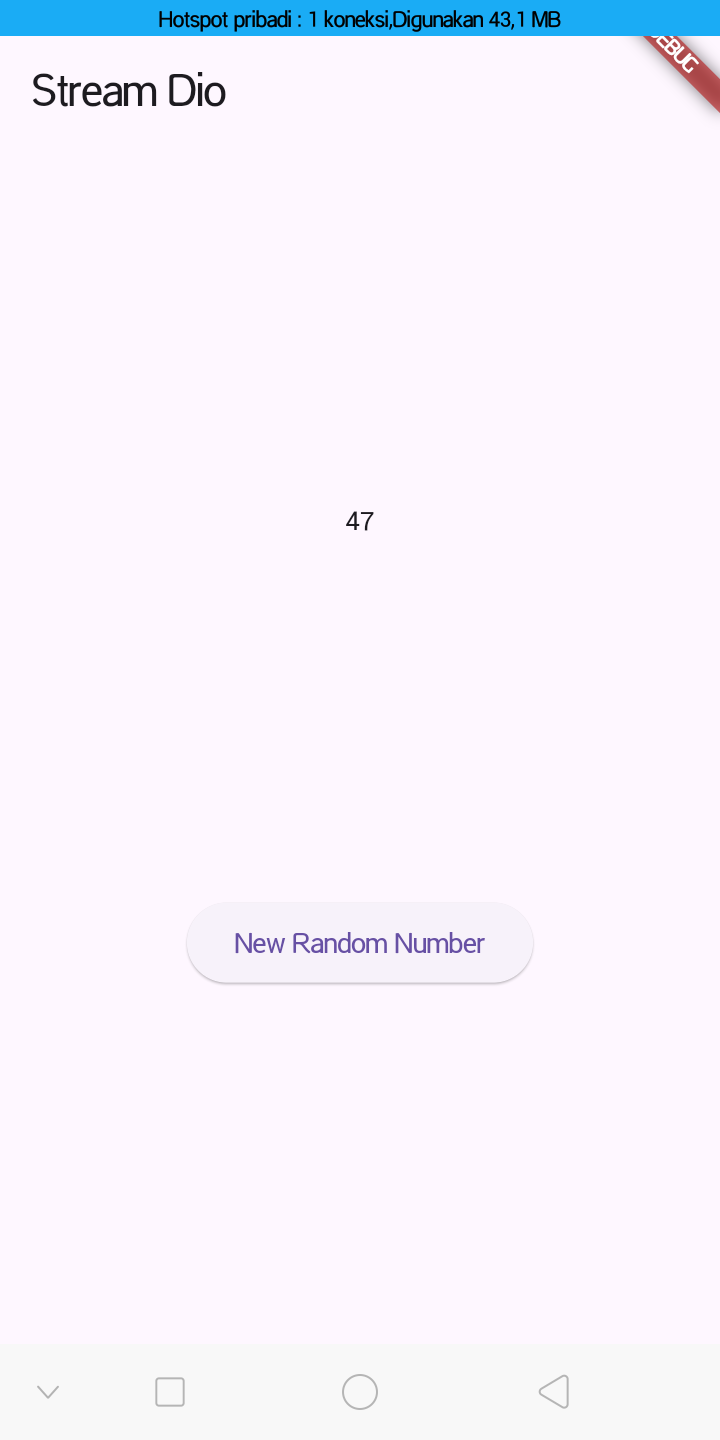
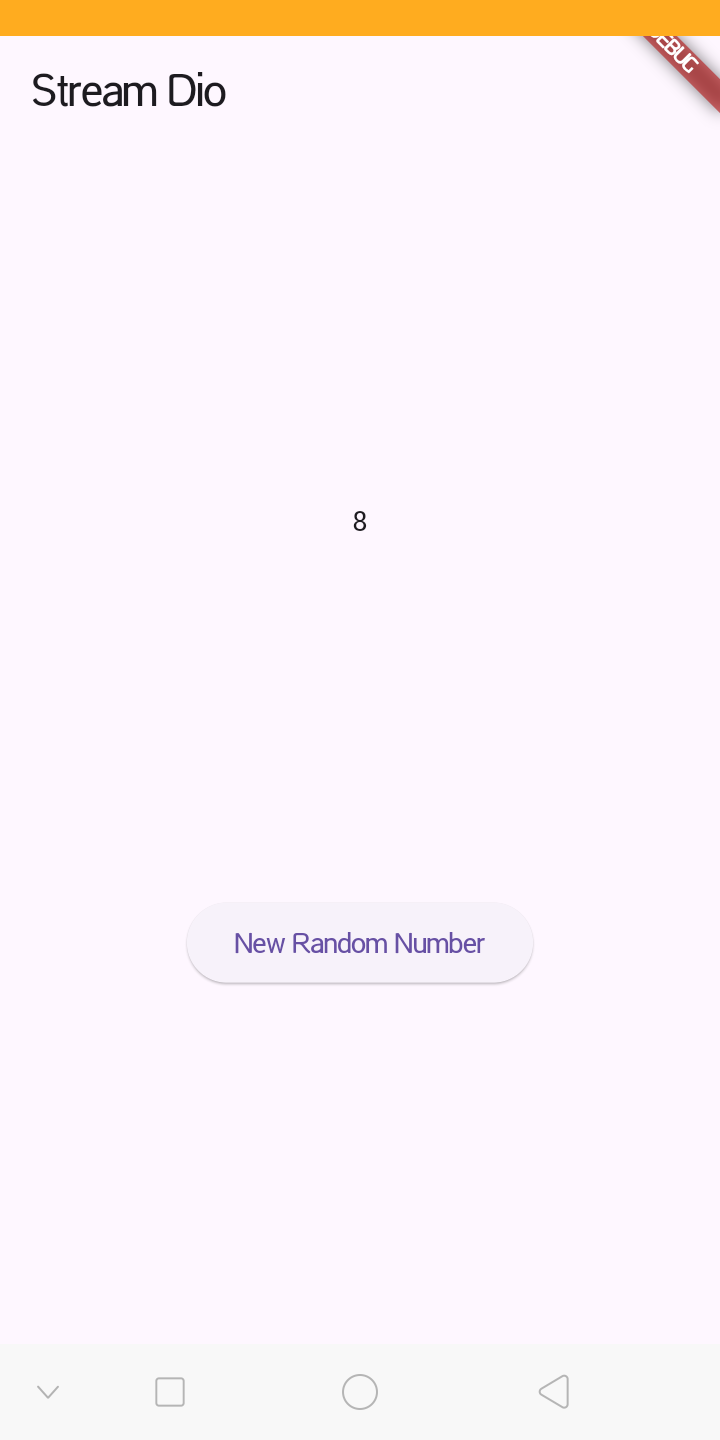
W12: Jawaban Soal 9

Changed region(s): [[0.0, 0.0, 1.0, 0.0312], [0.4889, 0.3438, 0.5194, 0.375]]

diff --git a/codelab12/stream_dio/lib/main.dart b/codelab12/stream_dio/lib/main.dart
@@ -37,8 +37,32 @@ class _StreamHomePageState extends State<StreamHomePage> {
   // Langkah 1 Praktikum 3
   late StreamTransformer transformer;
 
+  // Langkah 1 Praktikum 4
+  late StreamSubscription subscription;
+
   @override
+  // Langkah 2 Praktikum 4
   void initState() {
+    numberStream = NumberStream();
+    numberStreamController = numberStream.controller;
+    Stream stream = numberStreamController.stream;
+    subscription = stream.listen((event) {
+      setState(() {
+        lastNumber = event;
+      });
+    });
+    subscription.onError((error) {
+      setState(() {
+        lastNumber = -1;
+      });
+    });
+    subscription.onDone(() {
+      print("OnDone was called");
+    });
+    super.initState();
+  }
+
+  /*void initState() {
     // Langkah 8 Praktikum 2
     numberStream = NumberStream();
     numberStreamController = numberStream.controller;
@@ -69,12 +93,13 @@ class _StreamHomePageState extends State<StreamHomePage> {
     super.initState();
     // colorStream = ColorStream();
     // changeColor();
-  }
+  }*/
 
   // Langkah 9 Praktikum 2
   @override
   void dispose() {
-    numberStreamController.close();
+    subscription.cancel();
+    // numberStreamController.close();
     super.dispose();
   }
 
@@ -93,6 +118,11 @@ class _StreamHomePageState extends State<StreamHomePage> {
             ElevatedButton(
               onPressed: () => addRandomNumber(),
               child: Text('New Random Number'),
+            ),
+            // Praktikum 4 Langkah 7
+            ElevatedButton(
+              onPressed: () => stopStream(),
+              child: Text('Stop Subscription'),
             ),
           ],
         ),
@@ -119,8 +149,21 @@ class _StreamHomePageState extends State<StreamHomePage> {
   // Langkah 10 Praktikum 2
   void addRandomNumber() {
     Random random = Random();
-    int myNum = random.nextInt(100);
-    numberStream.addNumberToSink(myNum);
+    int myNum = random.nextInt(10);
+    // Praktikum 4 Langkah 8
+    if (!numberStreamController.isClosed) {
+      numberStream.addNumberToSink(myNum);
+    } else {
+      setState(() {
+        lastNumber = -1;
+      });
+    }
+    // numberStream.addNumberToSink(myNum);
     // numberStream.addError();
+  }
+
+  // Praktikum 4 Langkah 5
+  void stopStream() {
+    numberStreamController.close();
   }
 }

diff --git a/codelab12/README.md b/codelab12/README.md
@@ -392,7 +392,7 @@ class _StreamHomePageState extends State<StreamHomePage> {
   // Langkah 10 Praktikum 2
   void addRandomNumber() {
     Random random = Random();
-    int myNum = random.nextInt(100);
+    int myNum = random.nextInt(10);
     numberStream.addNumberToSink(myNum);
   }
 }
@@ -420,7 +420,7 @@ Lakukan running pada aplikasi Flutter Anda, maka akan terlihat seperti gambar be
   - Langkah 10: `addRandomNumber()`
     Maksud dari kode `addRandomNumber()` adalah untuk **menghasilkan data baru dan memasukkannya ke dalam _stream_**.
     1. `Random random = Random();`: Membuat generator angka acak.
-    2. `int myNum = random.nextInt(100);`: Menghasilkan angka acak baru antara 0 dan 99.
+    2. `int myNum = random.nextInt(100);`: Menghasilkan angka acak baru antara 0 dan 9.
     3. `numberStream.addNumberToSink(myNum);`: Merupakan aksi kunci. Kode ini mengambil angka acak (`myNum`) dan "menuangkannya" ke dalam _stream_ (melalui `sink`).
 
 - Capture hasil praktikum Anda berupa GIF dan lampirkan di README. ꪜ
@@ -458,7 +458,7 @@ Lakukan running pada aplikasi Flutter Anda, maka akan terlihat seperti gambar be
 ```dart
   void addRandomNumber() {
     Random random = Random();
-    // int myNum = random.nextInt(100);
+    // int myNum = random.nextInt(10);
     // numberStream.addNumberToSink(myNum);
     numberStream.addError();
   }
@@ -483,7 +483,7 @@ Lakukan running pada aplikasi Flutter Anda, maka akan terlihat seperti gambar be
   ```dart
   void addRandomNumber() {
     Random random = Random();
-    int myNum = random.nextInt(100);
+    int myNum = random.nextInt(10);
     numberStream.addNumberToSink(myNum);
     // numberStream.addError();
   }
@@ -546,7 +546,7 @@ class _StreamHomePageState extends State<StreamHomePage> {
 
 ### Run
 
-**Run** atau tekan **F5** untuk melihat hasilnya jika memang belum running. Bisa juga lakukan **hot restart** jika aplikasi sudah running. Maka hasilnya akan seperti gambar berikut ini.
+**Run** atau tekan **F5** untuk melihat hasilnya jika memang belum running. Bisa juga lakukan **hot restart** jika aplikasi sudah running. Maka hasilnya akan seperti gambar berikut ini. Anda akan melihat tampilan angka dari 0 hingga 90.
 
 ![Langkah 4](images/prak3_langkah4.png)
 
@@ -559,15 +559,140 @@ class _StreamHomePageState extends State<StreamHomePage> {
   1. Langkah 1 (`late StreamTransformer transformer;`) adalah **deklarasi variabel** dan akan diberi nilainya nanti sebelum digunakan (makanya menggunakan `late`).
   2. Langkah 2 (`transformer = StreamTransformer.fromHandlers(...)`) merupakan **logic** dari _transformer_.
 
-  - **`handleData: (value, sink) { sink.add(value * 10); }`** adalah aturan utama. Dikatakan: "Setiap kali ada data angka (`value`) yang masuk, **kalikan dengan 10**, lalu kirimkan (`sink.add`) hasil perkalian itu ke pipa keluaran.". _Contoh:_ Angka `25` masuk -> diubah jadi `250` -> `250` dikirim keluar.
+  - **`handleData: (value, sink) { sink.add(value * 10); }`** adalah aturan utama. Dikatakan: "Setiap kali ada data angka (`value`) yang masuk, **kalikan dengan 10**, lalu kirimkan (`sink.add`) hasil perkalian itu ke pipa keluaran.". _Contoh:_ Angka `2` masuk -> diubah jadi `20` -> `20` dikirim keluar.
   - **`handleError: (error, trace, sink) { sink.add(-1); }`** merupakan error handling. Dikatakan: "Jika ada _error_ yang masuk ke pipa, jangan teruskan errornya. Sebaliknya, tangkap error itu dan kirimkan angka `-1` sebagai gantinya."
 
   3. Langkah 3: `stream.transform(transformer).listen(...)` merupakan **penerapan** filter tersebut ke pipa _stream_.
 
-  Hasil akhirnya adalah `setState` (yang menampilkan angka di layar) tidak lagi menerima angka acak asli (misal `25`), tetapi menerima **angka yang sudah di-transformasi** (yaitu `250`).
+  Hasil akhirnya adalah `setState` (yang menampilkan angka di layar) tidak lagi menerima angka acak asli (misal `2`), tetapi menerima **angka yang sudah di-transformasi** (yaitu `20`).
 
 - Capture hasil praktikum Anda berupa GIF dan lampirkan di README. ꪜ
 
   ![Langkah 4](images/prak3_langkah4.gif)
 
 - Lalu lakukan commit dengan pesan "**W12: Jawaban Soal 8**". ꪜ
+
+## Praktikum 4: Subscribe ke stream events
+
+### Update kode `main.dart`:
+
+```dart
+// Existing code
+
+class _StreamHomePageState extends State<StreamHomePage> {
+  // Existing code
+  // Langkah 1 Praktikum 4
+  late StreamSubscription subscription;
+
+  @override
+  // Langkah 2 Praktikum 4
+  void initState() {
+    numberStream = NumberStream();
+    numberStreamController = numberStream.controller;
+    Stream stream = numberStreamController.stream;
+    subscription = stream.listen((event) {
+      setState(() {
+        lastNumber = event;
+      });
+    });
+    subscription.onError((error) {
+      setState(() {
+        lastNumber = -1;
+      });
+    });
+    subscription.onDone(() {
+      print("OnDone was called");
+    });
+    super.initState();
+  }
+
+  // Langkah 9 Praktikum 2
+  @override
+  void dispose() {
+    subscription.cancel();
+    super.dispose();
+  }
+
+  @override
+  Widget build(BuildContext context) {
+    return Scaffold(
+      appBar: AppBar(title: const Text('Stream Dio')),
+      // Langkah 11 Praktikum 2
+      body: SizedBox(
+        width: double.infinity,
+        child: Column(
+          mainAxisAlignment: MainAxisAlignment.spaceEvenly,
+          crossAxisAlignment: CrossAxisAlignment.center,
+          children: [
+            Text(lastNumber.toString()),
+            ElevatedButton(
+              onPressed: () => addRandomNumber(),
+              child: Text('New Random Number'),
+            ),
+            // Praktikum 4 Langkah 7
+            ElevatedButton(
+              onPressed: () => stopStream(),
+              child: Text('Stop Subscription'),
+            ),
+          ],
+        ),
+      ),
+      // body: Container(decoration: BoxDecoration(color: bgColor)),
+    );
+  }
+
+  // Existing code
+
+  // Langkah 10 Praktikum 2
+  void addRandomNumber() {
+    Random random = Random();
+    int myNum = random.nextInt(10);
+    if (!numberStreamController.isClosed) {
+      numberStream.addNumberToSink(myNum);
+    } else {
+      setState(() {
+        lastNumber = -1;
+      });
+    }
+  }
+
+  // Praktikum 4 Langkah 5
+  void stopStream() {
+    numberStreamController.close();
+  }
+}
+```
+
+### Run
+
+Anda akan melihat dua button seperti gambar berikut.
+
+![Langkah 9](images/prak4_langkah9.png)
+
+### Tekan button ‘Stop Subscription'
+
+Anda akan melihat pesan di Debug Console seperti berikut.
+
+![Langkah 10](images/prak4_langkah10.png)
+
+**Soal 9**
+
+- Jelaskan maksud kode langkah 2, 6 dan 8 tersebut!
+
+  Kode langkah 2 (`initState`) bermaksud untuk memulai langganan (subscription) ke stream dan menyimpan referensi langganan tersebut. `subscription = stream.listen(...)` merupakan inti dari langkah ini yaitu mulai "mendengarkan" stream dan, yang paling penting, menyimpan objek langganan itu ke dalam variabel `subscription` agar bisa mengontrolnya nanti.
+
+  Kode langkah 6 (`dispose`) bermaksud untuk membersihkan subscription saat halaman ditutup guna mencegah kebocoran memori (_memory leak_). Ini adalah kode "pembersihan" yang berjalan secara otomatis saat halaman ditutup. `subscription.cancel();` adalah perintah untuk "berhenti berlangganan". Saat halaman ditutup, stream diberi tahu bahwa halaman ini tidak lagi tertarik menerima data. Ini penting karena jika tidak membatalkannya, subscription akan tetap hidup di memori bahkan setelah halaman ditutup. Ini akan membuang-buang sumber daya dan dapat menyebabkan error jika mencoba memperbarui halaman yang sudah tidak ada.
+
+  Kode langkah 8 (`addRandomNumber`) bermaksud untuk menambahkan data baru ke stream dengan aman, mencegah crash jika stream sudah ditutup.
+
+  - `if (!numberStreamController.isClosed)` adalah baris terpenting. Kode ini memeriksa, "Apakah controller stream-nya masih terbuka?"
+  - Jika ya (masih terbuka), stream akan mengirimkan angka baru: `numberStream.addNumberToSink(myNum)`.
+  - Jika tidak (sudah ditutup oleh tombol "Stop Subscription"), ia akan menjalankan blok `else` dan mengubah `lastNumber` menjadi -1.
+
+  Ini penting karena jika mencoba menambahkan data (`.add()`) ke `StreamController` yang sudah ditutup (`.close()`), aplikasi akan crash. Langkah 8 ini mencegah crash tersebut.
+
+- Capture hasil praktikum Anda berupa GIF dan lampirkan di README. ꪜ
+
+  ![Langkah 9](images/prak4_langkah9.gif)
+
+- Lalu lakukan commit dengan pesan "**W12: Jawaban Soal 9**". ꪜ
